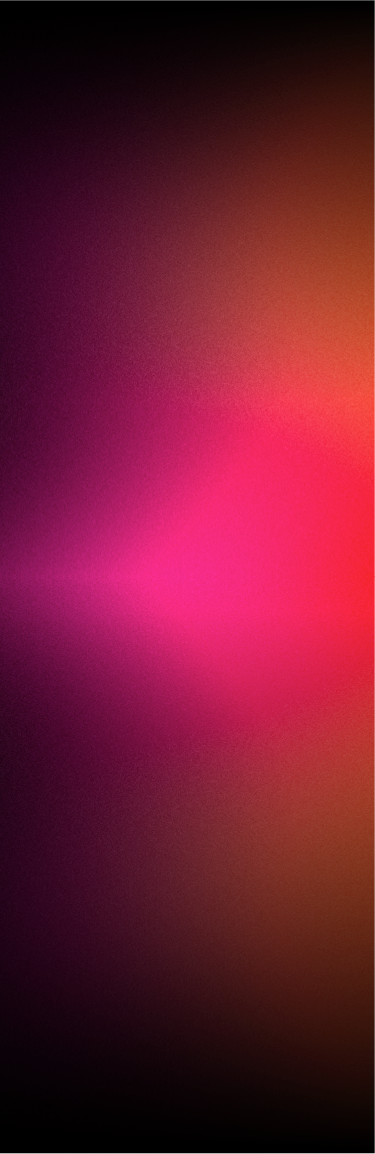
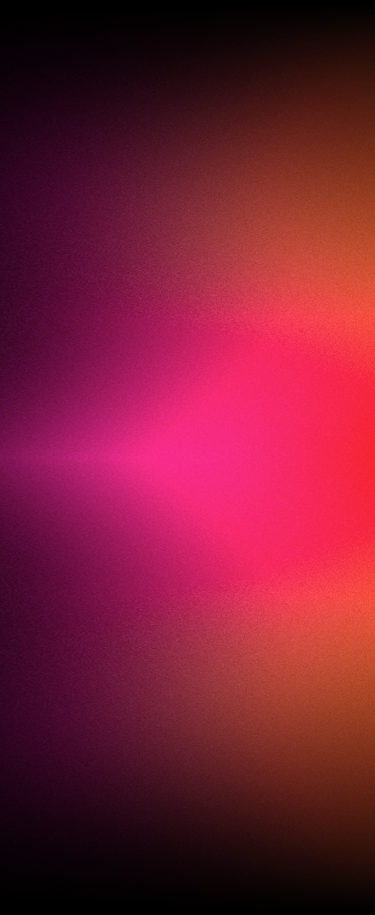
fix(frontpage): background for middle and bottom blocks scale properly in mobile

Changed region(s): [[0.1173, 0.0, 1.0, 1.0]]

diff --git a/sass/app.scss b/sass/app.scss
@@ -24,7 +24,8 @@ body {
 .middle-block {
   @include mobile-only {
     background: url("/images/background-middle-mobile.webp") top -2rem left no-repeat,
-      url("/images/background-generic-mobile-3.webp") top 36rem right no-repeat;
+      url("/images/background-generic-mobile-3.webp") top calc(458px + 30vh)
+        right no-repeat;
     background-size: 70% auto, 100% auto;
   }
   background: url("/images/background-middle.webp") top left no-repeat;
@@ -33,10 +34,10 @@ body {
 
 .end-block {
   @include mobile-only {
-    background: url("/images/background-bottom-mobile.webp") bottom -13rem right
+    background: url("/images/background-bottom-mobile.webp") bottom -23rem right
         no-repeat,
-      url("/images/background-middle-mobile.webp") top -3rem left no-repeat;
-    background-size: 100% auto, 100% auto;
+      url("/images/background-middle-mobile.webp") top left no-repeat;
+    background-size: 100% auto, 70% auto;
   }
 
   background: url("/images/background-bottom.webp") bottom right no-repeat;
